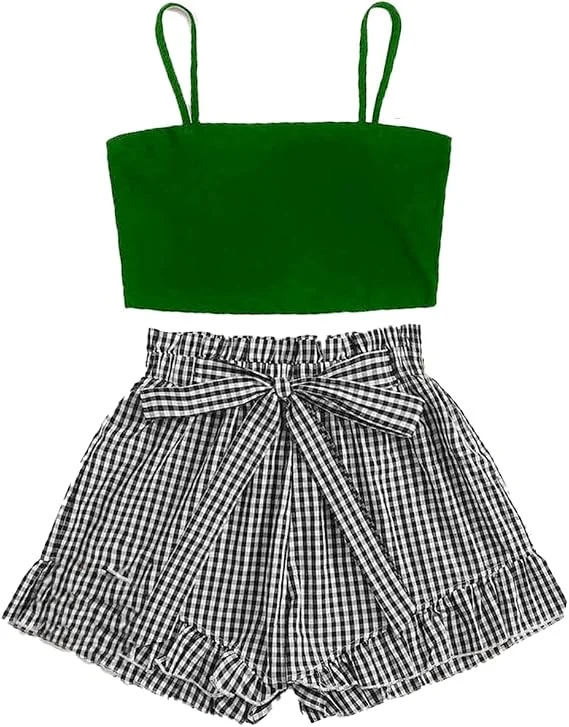
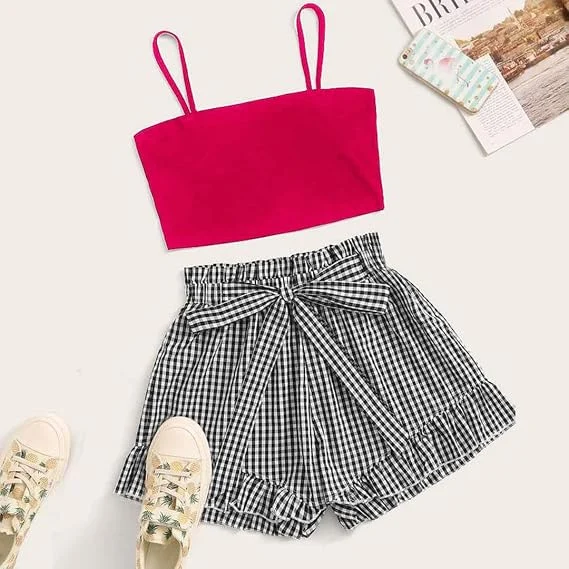
الصورة الرئيسية الجديدة للطقم وتغيير الكود إلى g003
Claude-Session: https://claude.ai/code/session_01FTZLhyRTLWvh9sgsZFoDRB

diff --git a/products/girls/gingham-crop-top-ruffle-shorts-set.html b/products/girls/gingham-crop-top-ruffle-shorts-set.html
@@ -18,7 +18,7 @@
 <meta property="og:url" content="https://karazkid.vercel.app/products/girls/gingham-crop-top-ruffle-shorts-set.html">
 <meta property="og:image" content="https://karazkid.vercel.app/images/gingham-crop-top-ruffle-shorts-set/1.webp">
 <meta name="twitter:card" content="summary_large_image">
-<script type="application/ld+json">{"@context": "https://schema.org", "@type": "Product", "name": "طقم بلوزة قصيرة وشورت كاروهات قطني للبنات", "image": ["https://karazkid.vercel.app/images/gingham-crop-top-ruffle-shorts-set/1.webp", "https://karazkid.vercel.app/images/gingham-crop-top-ruffle-shorts-set/2.webp", "https://karazkid.vercel.app/images/gingham-crop-top-ruffle-shorts-set/3.webp", "https://karazkid.vercel.app/images/gingham-crop-top-ruffle-shorts-set/4.webp"], "description": "طقم من قطعتين: بلوزة قصيرة بحمالات رفيعة وشورت قطني عالي الخصر بنقشة كاروهات وكشكشة عند الأطراف وحزام للربط. خفيف ومريح للأيام الحارة.", "category": "ملابس البنات", "url": "https://karazkid.vercel.app/products/girls/gingham-crop-top-ruffle-shorts-set.html", "sku": "g002", "brand": {"@type": "Brand", "name": "جينيريك"}, "material": "مزيج قطني ناعم"}</script>
+<script type="application/ld+json">{"@context": "https://schema.org", "@type": "Product", "name": "طقم بلوزة قصيرة وشورت كاروهات قطني للبنات", "image": ["https://karazkid.vercel.app/images/gingham-crop-top-ruffle-shorts-set/1.webp", "https://karazkid.vercel.app/images/gingham-crop-top-ruffle-shorts-set/2.webp", "https://karazkid.vercel.app/images/gingham-crop-top-ruffle-shorts-set/3.webp", "https://karazkid.vercel.app/images/gingham-crop-top-ruffle-shorts-set/4.webp", "https://karazkid.vercel.app/images/gingham-crop-top-ruffle-shorts-set/5.webp"], "description": "طقم من قطعتين: بلوزة قصيرة بحمالات رفيعة وشورت قطني عالي الخصر بنقشة كاروهات وكشكشة عند الأطراف وحزام للربط. خفيف ومريح للأيام الحارة.", "category": "ملابس البنات", "url": "https://karazkid.vercel.app/products/girls/gingham-crop-top-ruffle-shorts-set.html", "sku": "g003", "brand": {"@type": "Brand", "name": "جينيريك"}, "material": "مزيج قطني ناعم"}</script>
 <link rel="stylesheet" href="../../assets/landing.css">
 </head>
 <body>
@@ -37,7 +37,7 @@
   <section class="hero" aria-labelledby="t">
     <div>
       <span class="eyebrow">ملابس البنات · أطقم بناتي</span>
-      <span class="pcode">كود المنتج: g002</span>
+      <span class="pcode">كود المنتج: g003</span>
       
       <h1 id="t">طقم صيفي <em>بلوزة وشورت</em> كاروهات للبنات</h1>
       <p class="lead">طقم من قطعتين: بلوزة قصيرة بحمالات رفيعة وشورت قطني عالي الخصر بنقشة كاروهات وكشكشة عند الأطراف وحزام للربط. خفيف ومريح للأيام الحارة.</p>
@@ -50,14 +50,14 @@
       <p class="note"><svg viewBox="0 0 24 24" fill="none" stroke="currentColor" stroke-width="2" stroke-linecap="round" stroke-linejoin="round" aria-hidden="true"><circle cx="12" cy="12" r="9"/><path d="M12 8v5M12 16h.01"/></svg><span>سيتم تحويلك إلى أمازون لإتمام الطلب. تظهر تفاصيل السعر والدفع والتوصيل هناك، وتخضع لسياسات أمازون.</span></p>
     </div>
     <div class="gal">
-      <div class="thumbs" aria-label="صور المنتج"><button type="button" data-src="../../images/gingham-crop-top-ruffle-shorts-set/1.webp" data-alt="طقم بلوزة قصيرة زهرية وشورت كاروهات أبيض وأسود بكشكشة" aria-current="true" aria-label="صورة 1"><img src="../../images/gingham-crop-top-ruffle-shorts-set/1.webp" alt=""></button><button type="button" data-src="../../images/gingham-crop-top-ruffle-shorts-set/2.webp" data-alt="الطقم الزهري مع شورت الكاروهات والحزام بتنسيق مسطح"  aria-label="صورة 2"><img src="../../images/gingham-crop-top-ruffle-shorts-set/2.webp" alt=""></button><button type="button" data-src="../../images/gingham-crop-top-ruffle-shorts-set/3.webp" data-alt="طقم بلوزة قصيرة خضراء وشورت كاروهات أبيض وأسود"  aria-label="صورة 3"><img src="../../images/gingham-crop-top-ruffle-shorts-set/3.webp" alt=""></button><button type="button" data-src="../../images/gingham-crop-top-ruffle-shorts-set/4.webp" data-alt="الطقم الأخضر مع شورت الكاروهات والحزام بتنسيق مسطح"  aria-label="صورة 4"><img src="../../images/gingham-crop-top-ruffle-shorts-set/4.webp" alt=""></button></div>
+      <div class="thumbs" aria-label="صور المنتج"><button type="button" data-src="../../images/gingham-crop-top-ruffle-shorts-set/1.webp" data-alt="طفلة ترتدي طقم بلوزة قصيرة زهرية وشورت كاروهات بحزام وكشكشة" aria-current="true" aria-label="صورة 1"><img src="../../images/gingham-crop-top-ruffle-shorts-set/1.webp" alt=""></button><button type="button" data-src="../../images/gingham-crop-top-ruffle-shorts-set/2.webp" data-alt="طقم بلوزة قصيرة زهرية وشورت كاروهات أبيض وأسود بكشكشة"  aria-label="صورة 2"><img src="../../images/gingham-crop-top-ruffle-shorts-set/2.webp" alt=""></button><button type="button" data-src="../../images/gingham-crop-top-ruffle-shorts-set/3.webp" data-alt="الطقم الزهري مع شورت الكاروهات والحزام بتنسيق مسطح"  aria-label="صورة 3"><img src="../../images/gingham-crop-top-ruffle-shorts-set/3.webp" alt=""></button><button type="button" data-src="../../images/gingham-crop-top-ruffle-shorts-set/4.webp" data-alt="طقم بلوزة قصيرة خضراء وشورت كاروهات أبيض وأسود"  aria-label="صورة 4"><img src="../../images/gingham-crop-top-ruffle-shorts-set/4.webp" alt=""></button><button type="button" data-src="../../images/gingham-crop-top-ruffle-shorts-set/5.webp" data-alt="الطقم الأخضر مع شورت الكاروهات والحزام بتنسيق مسطح"  aria-label="صورة 5"><img src="../../images/gingham-crop-top-ruffle-shorts-set/5.webp" alt=""></button></div>
       <div class="stage"><span class="tag">جينيريك</span>
-        <img id="stageImg" fetchpriority="high" decoding="async" src="../../images/gingham-crop-top-ruffle-shorts-set/1.webp" alt="طقم بلوزة قصيرة زهرية وشورت كاروهات أبيض وأسود بكشكشة" width="569" height="735"></div>
+        <img id="stageImg" fetchpriority="high" decoding="async" src="../../images/gingham-crop-top-ruffle-shorts-set/1.webp" alt="طفلة ترتدي طقم بلوزة قصيرة زهرية وشورت كاروهات بحزام وكشكشة" width="733" height="1100"></div>
     </div>
   </section>
   <div class="band" role="list"><div role="listitem"><b>قطعتان</b><span>بلوزة وشورت</span></div><div role="listitem"><b>كاروهات</b><span>وكشكشة وحزام</span></div><div role="listitem"><b>لونان</b><span>زهري وأخضر</span></div><div role="listitem"><b>4 مقاسات</b><span>2 · 4 · 6 · 8</span></div></div>
   <section class="blk" id="details"><div class="head"><h2>تفاصيل صغيرة تصنع الإطلالة</h2></div><div class="feat"><article class="f"><div class="ic"><svg viewBox="0 0 24 24" fill="none" stroke="currentColor" stroke-width="1.8" stroke-linecap="round" stroke-linejoin="round" aria-hidden="true"><circle cx="8" cy="8" r="3"/><circle cx="16" cy="9" r="2"/><circle cx="12" cy="16" r="3.5"/></svg></div><h3>شورت كاروهات بحزام</h3><p>شورت قطني عالي الخصر بنقشة كاروهات وكشكشة عند الأطراف، مع حزام للربط يزيّن الخصر.</p></article><article class="f"><div class="ic"><svg viewBox="0 0 24 24" fill="none" stroke="currentColor" stroke-width="1.8" stroke-linecap="round" stroke-linejoin="round" aria-hidden="true"><path d="M7 3v6l5 4 5-4V3"/><path d="M4 9c0 6 3 12 8 12s8-6 8-12"/></svg></div><h3>بلوزة قصيرة بحمالات</h3><p>بلوزة بدون أكمام بحمالات رفيعة، تناسب الصيف والنزهات.</p></article><article class="f"><div class="ic"><svg viewBox="0 0 24 24" fill="none" stroke="currentColor" stroke-width="1.8" stroke-linecap="round" stroke-linejoin="round" aria-hidden="true"><path d="M5 12c0-4 3-7 7-7s7 3 7 7-3 7-7 7-7-3-7-7z"/><path d="M9 12h6"/></svg></div><h3>مزيج قطني ناعم</h3><p>قماش خفيف مزوّد بمسامات للتهوية لراحة طوال اليوم.</p></article></div></section>
-  <section class="blk"><div class="head"><h2>شوفيه من كل زاوية</h2></div><div class="show"><figure class="shot"><img src="../../images/gingham-crop-top-ruffle-shorts-set/2.webp" alt="الطقم الزهري مع شورت الكاروهات والحزام بتنسيق مسطح" loading="lazy" style="object-position:top"></figure><figure class="shot contain"><img src="../../images/gingham-crop-top-ruffle-shorts-set/3.webp" alt="طقم بلوزة قصيرة خضراء وشورت كاروهات أبيض وأسود" loading="lazy" style="object-position:top"><figcaption>أخضر</figcaption></figure></div></section>
+  <section class="blk"><div class="head"><h2>شوفيه من كل زاوية</h2></div><div class="show"><figure class="shot contain"><img src="../../images/gingham-crop-top-ruffle-shorts-set/2.webp" alt="طقم بلوزة قصيرة زهرية وشورت كاروهات أبيض وأسود بكشكشة" loading="lazy" style="object-position:top"><figcaption>زهري</figcaption></figure><figure class="shot"><img src="../../images/gingham-crop-top-ruffle-shorts-set/3.webp" alt="الطقم الزهري مع شورت الكاروهات والحزام بتنسيق مسطح" loading="lazy" style="object-position:top"></figure></div></section>
   <section class="blk"><div class="head"><h2>مواصفات المنتج</h2></div><div class="specwrap"><div class="spec"><dl><dt>العلامة التجارية</dt><dd>جينيريك</dd><dt>الفئة</dt><dd>بنات · أطقم</dd><dt>النوع</dt><dd>طقم بلوزة قصيرة وشورت</dd><dt>الخامة</dt><dd>مزيج قطني ناعم</dd><dt>اللون</dt><dd>زهري، أخضر</dd><dt>المقاسات</dt><dd>2 · 4 · 6 · 8</dd><dt>نوع السحّاب</dt><dd>حزام خصر مطاطي</dd><dt>العناية</dt><dd>غسيل بالغسالة</dd></dl></div><div class="care"><h3>العناية بالمنتج</h3><ul><li>يمكن غسله في الغسالة.</li><li>راجعي دليل المقاسات على صفحة المنتج في أمازون قبل اختيار المقاس.</li></ul></div></div></section>
   
   <section class="blk"><div class="head"><h2>أسئلة قبل الشراء</h2></div><div class="faq"><details><summary>كيف أطلب الطقم؟</summary><p>اضغطي على زر «اطلب الآن من أمازون» وسيفتح لك المنتج هناك، وتختارين اللون والمقاس وتكملين الطلب. كرز لا يستقبل الطلبات مباشرة.</p></details><details><summary>ما الألوان والمقاسات المتاحة؟</summary><p>اللونان الزهري والأخضر، والمقاسات 2 و4 و6 و8. التوفر يتغير، فتأكدي منه على أمازون.</p></details><details><summary>كيف أعتني بالطقم؟</summary><p>يمكن غسله في الغسالة.</p></details><details><summary>من يتولى الدفع والشحن؟</summary><p>عملية الدفع والشحن تتم على أمازون وفق سياساتها. كرز يعرض المنتج ويحوّلك إلى صفحته الصحيحة هناك.</p></details></div></section>
@@ -82,7 +82,7 @@
 <script type="application/json" id="product">
 {
   "id": "gingham-crop-top-ruffle-shorts-set",
-  "code": "g002",
+  "code": "g003",
   "name": "طقم بلوزة قصيرة وشورت كاروهات قطني للبنات",
   "category": "girls",
   "sub": "أطقم بناتي",
@@ -108,7 +108,8 @@
     "images/gingham-crop-top-ruffle-shorts-set/1.webp",
     "images/gingham-crop-top-ruffle-shorts-set/2.webp",
     "images/gingham-crop-top-ruffle-shorts-set/3.webp",
-    "images/gingham-crop-top-ruffle-shorts-set/4.webp"
+    "images/gingham-crop-top-ruffle-shorts-set/4.webp",
+    "images/gingham-crop-top-ruffle-shorts-set/5.webp"
   ],
   "description": "طقم من قطعتين: بلوزة قصيرة بحمالات رفيعة وشورت قطني عالي الخصر بنقشة كاروهات وكشكشة عند الأطراف وحزام للربط. خفيف ومريح للأيام الحارة.",
   "material": "مزيج قطني ناعم",

diff --git a/products/products.js b/products/products.js
@@ -1,7 +1,7 @@
 window.KARAZ_PRODUCTS = [
   {
     "id": "gingham-crop-top-ruffle-shorts-set",
-    "code": "g002",
+    "code": "g003",
     "name": "طقم بلوزة قصيرة وشورت كاروهات قطني للبنات",
     "category": "girls",
     "sub": "أطقم بناتي",
@@ -27,7 +27,8 @@ window.KARAZ_PRODUCTS = [
       "images/gingham-crop-top-ruffle-shorts-set/1.webp",
       "images/gingham-crop-top-ruffle-shorts-set/2.webp",
       "images/gingham-crop-top-ruffle-shorts-set/3.webp",
-      "images/gingham-crop-top-ruffle-shorts-set/4.webp"
+      "images/gingham-crop-top-ruffle-shorts-set/4.webp",
+      "images/gingham-crop-top-ruffle-shorts-set/5.webp"
     ],
     "description": "طقم من قطعتين: بلوزة قصيرة بحمالات رفيعة وشورت قطني عالي الخصر بنقشة كاروهات وكشكشة عند الأطراف وحزام للربط. خفيف ومريح للأيام الحارة.",
     "material": "مزيج قطني ناعم",
